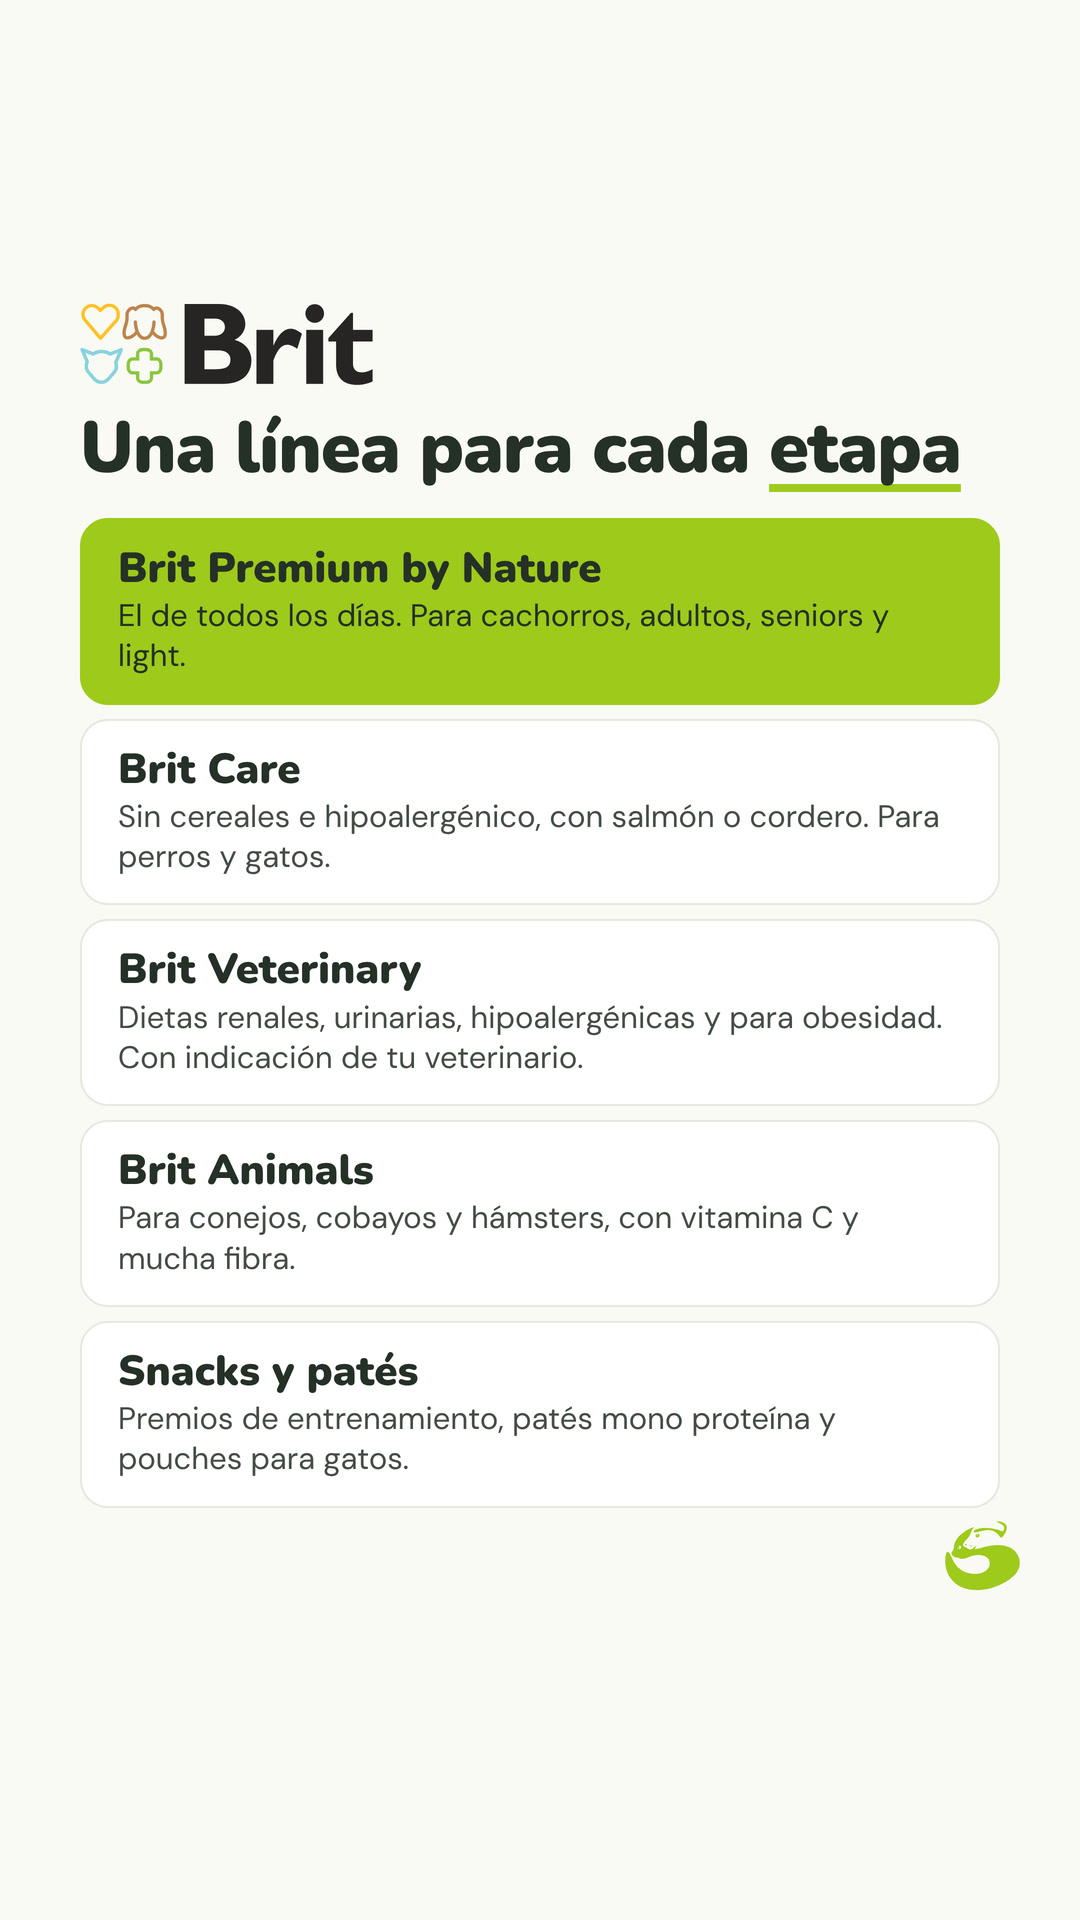
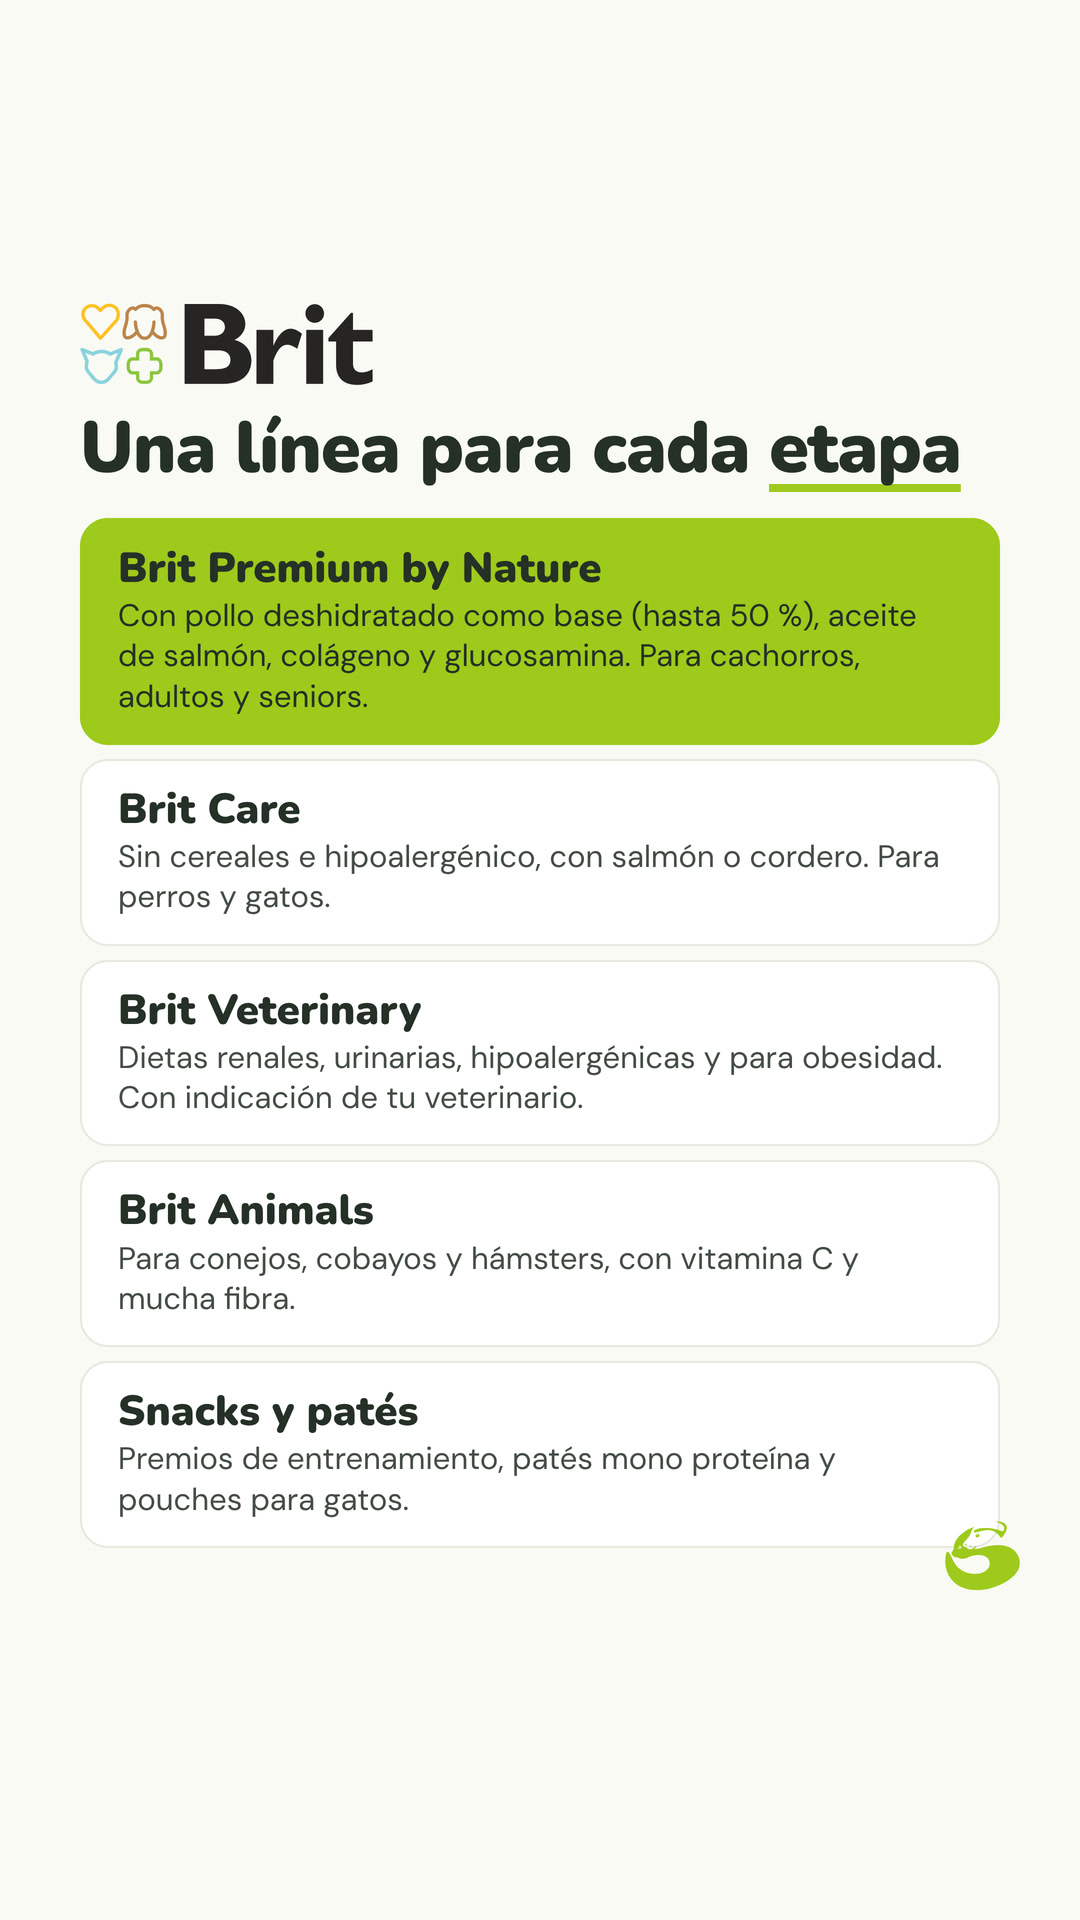
Brit Premium by Nature: describir la formulación en vez de «el de todos los días»
Claude-Session: https://claude.ai/code/session_01UFgb9cPkwjsoNhDLqTBRZN

Changed region(s): [[0.0611, 0.3125, 0.9472, 0.8125], [0.6417, 0.7188, 0.7639, 0.7812]]

diff --git a/posts/2026-10-historias-destacadas/fuente/index.html b/posts/2026-10-historias-destacadas/fuente/index.html
@@ -112,7 +112,7 @@
     // ---------- BRIT ----------
     { marca: 'brit', tipo: 'portada', h: 'Alimento premium hecho en <em>República Checa</em>', x: 'Para perros, gatos, conejos, cobayos y hámsters.' },
     { marca: 'brit', tipo: 'lineas', h: 'Una línea para cada <em>etapa</em>', tarjetas: [
-      ['Brit Premium by Nature', 'El de todos los días. Para cachorros, adultos, seniors y light.'],
+      ['Brit Premium by Nature', 'Con pollo deshidratado como base (hasta 50 %), aceite de salmón, colágeno y glucosamina. Para cachorros, adultos y seniors.'],
       ['Brit Care', 'Sin cereales e hipoalergénico, con salmón o cordero. Para perros y gatos.'],
       ['Brit Veterinary', 'Dietas renales, urinarias, hipoalergénicas y para obesidad. Con indicación de tu veterinario.'],
       ['Brit Animals', 'Para conejos, cobayos y hámsters, con vitamina C y mucha fibra.'],
